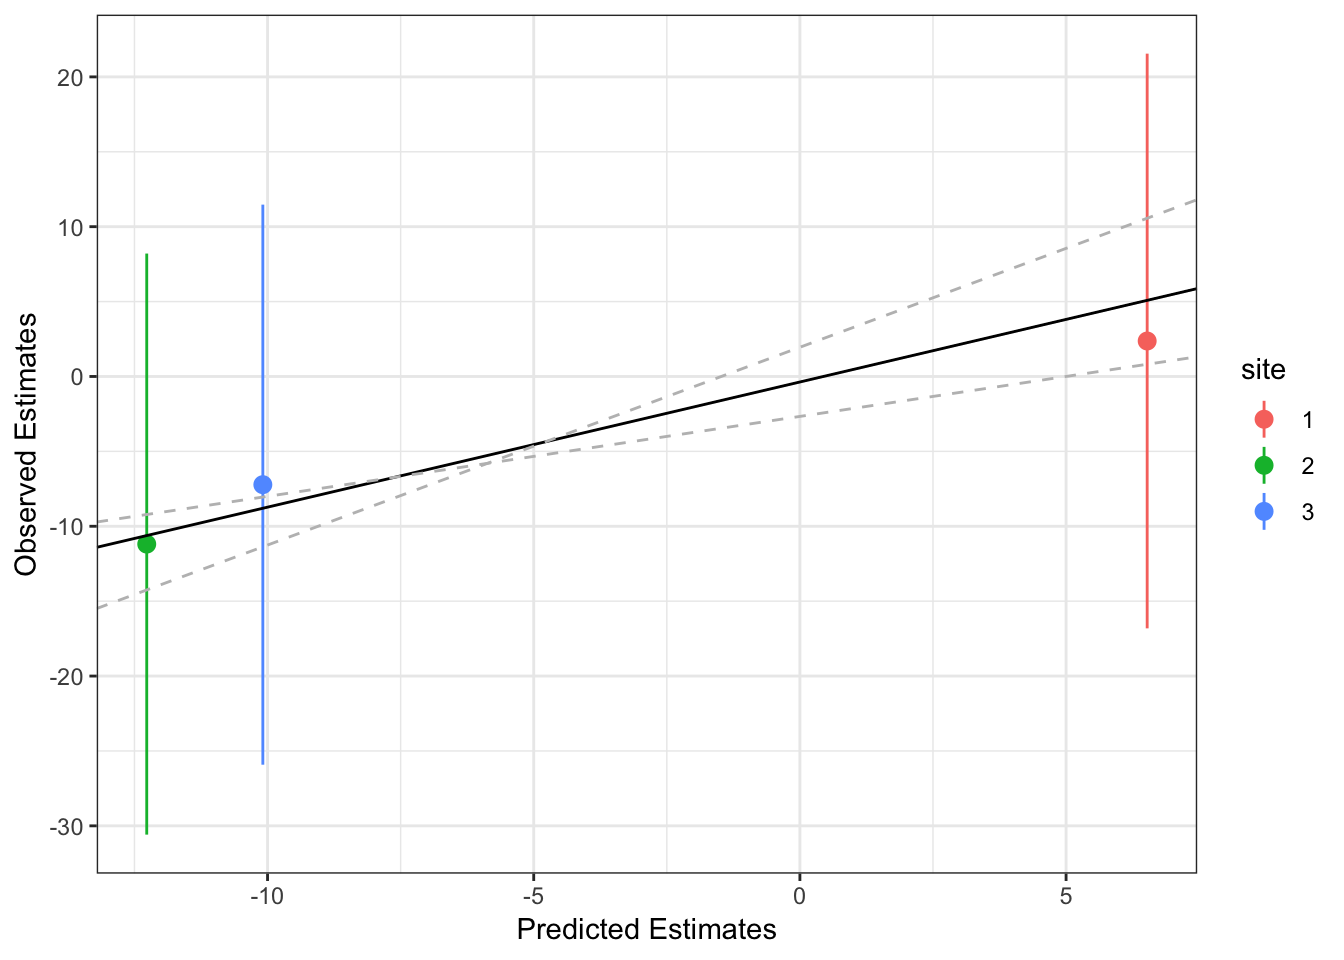
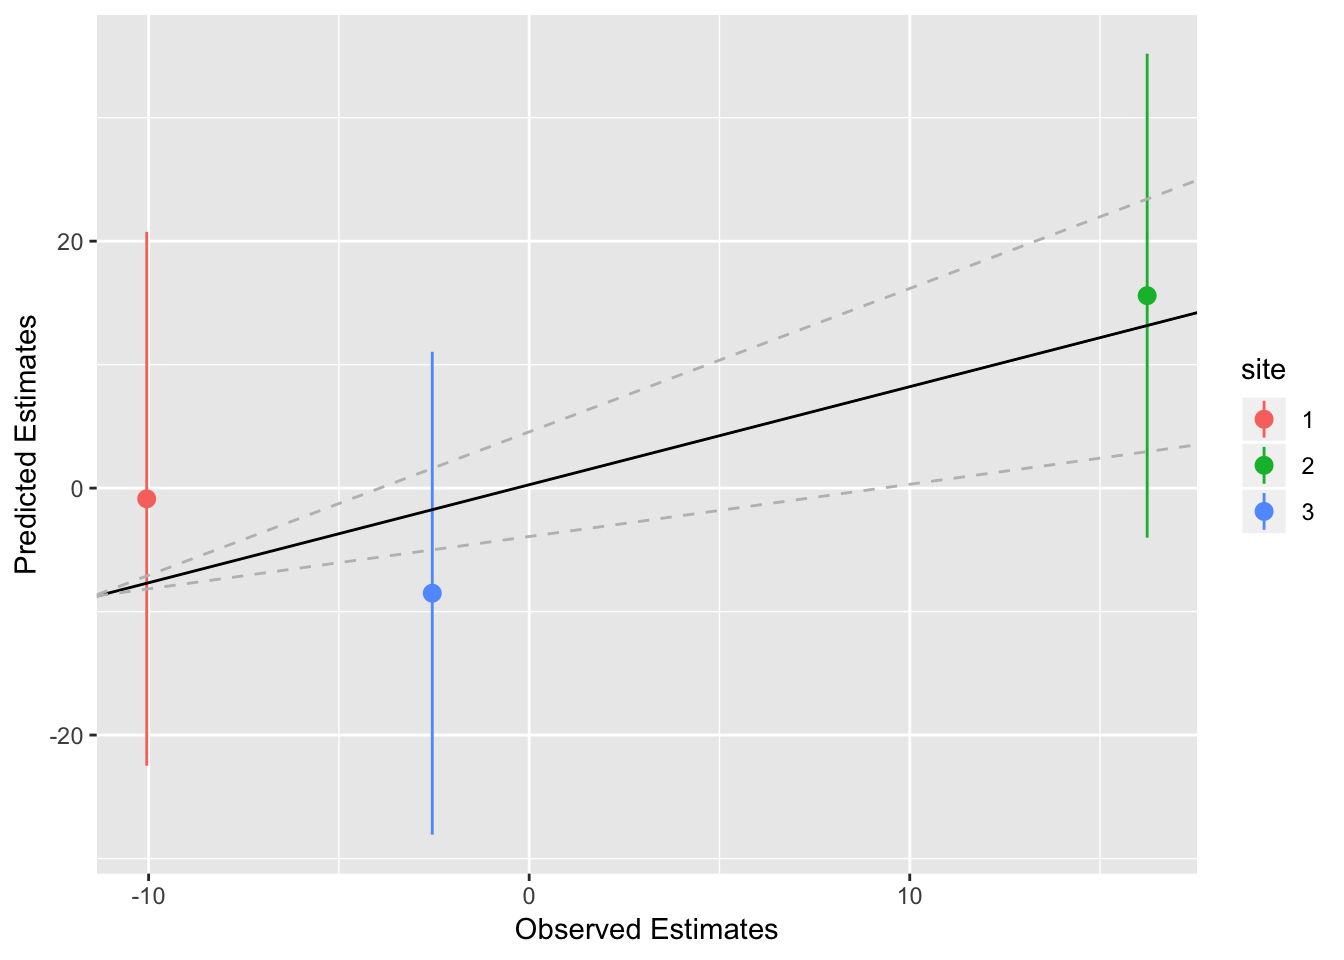
render with corrections

diff --git a/docs/anova.html b/docs/anova.html
@@ -362,12 +362,12 @@ names(df)&lt;-c(&quot;treatment&quot;, &quot;score&quot;)
 df$treatment&lt;-as.factor(df$treatment)
 head(df)</code></pre>
 <pre><code>##   treatment score
-## 1         1 84.16
-## 2         1 92.63
-## 3         1 71.88
-## 4         1 72.46
-## 5         1 67.55
-## 6         1 71.89</code></pre>
+## 1         1 75.19
+## 2         1 62.55
+## 3         1 86.31
+## 4         1 58.76
+## 5         1 63.76
+## 6         1 91.98</code></pre>
 <p>Let’s calculate the variances</p>
 <pre class="r"><code># Root mean squared error for each group
 av.sqrt1&lt;-mean(sqrt1&lt;- with(df, sqrt(score[treatment==1])))
@@ -391,10 +391,10 @@ Vwith&lt;-(av.sqrt1+av.sqrt2+av.sqrt3)/3
 Vbet&lt;-((m1-GM)^2)+((m2-GM)^2)+((m3-GM)^2)/2
 
 cat(&quot;Within Group Variance:&quot;, round(Vwith, 2), &quot;\n&quot;)</code></pre>
-<pre><code>## Within Group Variance: 8.78</code></pre>
+<pre><code>## Within Group Variance: 8.99</code></pre>
 <pre class="r"><code>cat(&quot;Between Group Variance:&quot;, round(Vbet, 2))</code></pre>
-<pre><code>## Between Group Variance: 55.19</code></pre>
-<p>Within the groups, observations vary by a factor of 8.7777676 on average, due to chance factors, such as unsystematic measurement error, idiosynchratic differences between participants and other unknown factors. The average variance between the groups is 55.1882473: the statistical test will investigate if this variance is attributable to treatment - a factor that systematically varies between the groups.</p>
+<pre><code>## Between Group Variance: 3.34</code></pre>
+<p>Within the groups, observations vary by a factor of 8.98586 on average, due to chance factors, such as unsystematic measurement error, idiosynchratic differences between participants and other unknown factors. The average variance between the groups is 3.3447006: the statistical test will investigate if this variance is attributable to treatment - a factor that systematically varies between the groups.</p>
 </div>
 <div id="running-the-anova" class="section level1">
 <h1>Running the ANOVA</h1>
@@ -403,48 +403,48 @@ cat(&quot;Within Group Variance:&quot;, round(Vwith, 2), &quot;\n&quot;)</code><
 s.aov&lt;-summary(aov) 
 s.aov</code></pre>
 <pre><code>##             Df Sum Sq Mean Sq F value Pr(&gt;F)
-## treatment    2    620   310.0   2.164  0.134
-## Residuals   27   3868   143.3</code></pre>
+## treatment    2     44   21.78   0.085  0.918
+## Residuals   27   6889  255.14</code></pre>
 <p>Means per group (that we calculated manually before), and coefficients of the treatment effect (unstandardised effect size), with standard error:</p>
 <pre class="r"><code>model.tables(aov, &quot;mean&quot;, se=TRUE) #means</code></pre>
 <pre><code>## Tables of means
 ## Grand mean
 ##          
-## 77.53833 
+## 81.45733 
 ## 
 ##  treatment 
 ## treatment
 ##     1     2     3 
-## 80.25 71.13 81.23 
+## 79.93 81.56 82.88 
 ## 
 ## Standard errors for differences of means
 ##         treatment
-##             5.353
+##             7.143
 ## replic.        10</code></pre>
 <pre class="r"><code>model.tables(aov, &quot;effects&quot;, se=TRUE) #coefficients</code></pre>
 <pre><code>## Tables of effects
 ## 
 ##  treatment 
 ## treatment
-##      1      2      3 
-##  2.713 -6.404  3.692 
+##       1       2       3 
+## -1.5243  0.1027  1.4217 
 ## 
 ## Standard errors of effects
 ##         treatment
-##             3.785
+##             5.051
 ## replic.        10</code></pre>
 <p>Let’s format the output a bit:</p>
 <pre class="r"><code>library(broom)
 tidy.summ&lt;-tidy(aov)
 tidy.summ</code></pre>
 <pre><code>## # A tibble: 2 x 6
-##   term         df sumsq meansq statistic p.value
-##   &lt;chr&gt;     &lt;dbl&gt; &lt;dbl&gt;  &lt;dbl&gt;     &lt;dbl&gt;   &lt;dbl&gt;
-## 1 treatment     2  620.   310.      2.16   0.134
-## 2 Residuals    27 3868.   143.     NA     NA</code></pre>
+##   term         df  sumsq meansq statistic p.value
+##   &lt;chr&gt;     &lt;dbl&gt;  &lt;dbl&gt;  &lt;dbl&gt;     &lt;dbl&gt;   &lt;dbl&gt;
+## 1 treatment     2   43.6   21.8    0.0853   0.918
+## 2 Residuals    27 6889.   255.    NA       NA</code></pre>
 <div id="reporting" class="section level2">
 <h2>Reporting</h2>
-<p>The treatment effect did not give a statistically significant difference, with F(2,27) = 2.16, p-value = 0.13</p>
+<p>The treatment effect did not give a statistically significant difference, with F(2,27) = 0.09, p-value = 0.92</p>
 </div>
 </div>
 <div id="effect-size" class="section level1">
@@ -457,8 +457,8 @@ R_squared &lt;- sum_squares_treatment /
             (sum_squares_treatment + sum_squares_residuals)
 
 R_squared</code></pre>
-<pre><code>## [1] 0.1381502</code></pre>
-<p>The effects size R-Squared is 0.14.</p>
+<pre><code>## [1] 0.00628243</code></pre>
+<p>The effects size R-Squared is 0.01.</p>
 </div>
 <div id="factorial-anova" class="section level1">
 <h1>Factorial Anova</h1>
@@ -485,7 +485,7 @@ str(fa.df)</code></pre>
 ##  $ subj    : Factor w/ 60 levels &quot;1&quot;,&quot;10&quot;,&quot;11&quot;,..: 1 12 23 34 45 56 58 59 60 2 ...
 ##  $ group   : Factor w/ 2 levels &quot;a&quot;,&quot;b&quot;: 1 1 1 1 1 1 1 1 1 1 ...
 ##  $ test    : Factor w/ 2 levels &quot;y&quot;,&quot;z&quot;: 1 2 1 2 1 2 1 2 1 2 ...
-##  $ response: num  15.1 15 15.3 14.4 13.9 ...</code></pre>
+##  $ response: num  14.7 14.9 14.4 14.2 15 ...</code></pre>
 <p>Output:</p>
 <pre class="r"><code>av&lt;-aov(response ~ group*test, fa.df)
 tidy.summ&lt;-tidy(av)</code></pre>
@@ -499,15 +499,15 @@ ES2&lt;-(ssq[2]*dof[2])/(ssq[2]+dof[2]+dof_res)
 ES3&lt;-(ssq[3]*dof[3])/(ssq[3]+dof[3]+dof_res)
 
 cat(&quot;ES of group:&quot;, ifelse(ES1&lt;0.001, &quot;&lt; 0.001&quot;, round(ES1, 2)), &quot;\n&quot;)</code></pre>
-<pre><code>## ES of group: 0.69</code></pre>
+<pre><code>## ES of group: 0.76</code></pre>
 <pre class="r"><code>cat(&quot;ES of test:&quot;, ifelse(ES2&lt;0.009, &quot;&lt; 0.001&quot;, round(ES2, 2)), &quot;\n&quot;)</code></pre>
 <pre><code>## ES of test: &lt; 0.001</code></pre>
 <pre class="r"><code>cat(&quot;ES of interaction:&quot;, ifelse(ES3&lt;0.009, &quot;&lt; 0.001&quot;, round(ES3, 2)), &quot;\n&quot;)</code></pre>
-<pre><code>## ES of interaction: &lt; 0.001</code></pre>
+<pre><code>## ES of interaction: 0.01</code></pre>
 </div>
 <div id="repeated-measures-anova" class="section level1">
 <h1>Repeated measures ANOVA</h1>
-<p>One of the assumptions of ANOVA is that the groups of which we are examining the means are independent. In other words, they do not have to be correlated, as it happens when you measure the same things on the same group of individuals. Broadly speaking, the errors will be smaller because measurements come from the same people, and this could significantly misallign your result. Look at our residual in the previous ANOVA: it’s approximately 24 but it might be bigger if we didn’t account for the correlation! The approach of ANOVA to this problem is to separate the calculations depending on different “strata”, and run a separate linear regression for each of them. In the formula, we need to specify the strata, for example, 1 for each subject. Note: while this is similar to a mixed model, it is <em>NOT a mixed model</em>. A mixed model does not run a separate least-square regression for each strata, but rather allow a different estimate of each coefficient within a pre-defined nesting.</p>
+<p>One of the assumptions of ANOVA is that the groups of which we are examining the means are independent. In other words, they do not have to be correlated, as it happens when you measure the same things on the same group of individuals. Broadly speaking, the errors will be smaller because measurements come from the same people, and this could significantly misallign your result. Look at our residual in the previous ANOVA: it’s approximately 20 but it might be bigger if we didn’t account for the correlation! The approach of ANOVA to this problem is to separate the calculations depending on different “strata”, and run a separate linear regression for each of them. In the formula, we need to specify the strata, for example, 1 for each subject. Note: while this is similar to a mixed model, it is <em>NOT a mixed model</em>. A mixed model does not run a separate least-square regression for each strata, but rather allow a different estimate of each coefficient within a pre-defined nesting.</p>
 <p>In this example, each participant of group A and B made the two measurements of tests y and z. So we have two scores for each subject (within-subject design).</p>
 <pre class="r"><code>subjr&lt;-rep(1:30,2)
 subjr&lt;-sort(subjr)
@@ -517,13 +517,13 @@ responser&lt;-sample(round(rnorm(500, mean=8, sd=6), digits=3), 60)
 rd.df&lt;-as.data.frame(cbind(subjr, groupr, testr, responser))
 rd.df$responser&lt;-as.numeric(as.character(rd.df$responser))
 summary(rd.df)</code></pre>
-<pre><code>##      subjr    groupr testr    responser      
-##  1      : 2   a:30   y:30   Min.   :-11.541  
-##  10     : 2   b:30   z:30   1st Qu.:  2.924  
-##  11     : 2                 Median :  6.958  
-##  12     : 2                 Mean   :  6.632  
-##  13     : 2                 3rd Qu.: 10.215  
-##  14     : 2                 Max.   : 23.339  
+<pre><code>##      subjr    groupr testr    responser     
+##  1      : 2   a:30   y:30   Min.   :-7.839  
+##  10     : 2   b:30   z:30   1st Qu.: 3.143  
+##  11     : 2                 Median : 7.032  
+##  12     : 2                 Mean   : 7.109  
+##  13     : 2                 3rd Qu.:11.818  
+##  14     : 2                 Max.   :20.266  
 ##  (Other):48</code></pre>
 <pre class="r"><code>r.av&lt;-aov(responser ~ groupr*testr + Error(subjr), data = rd.df)
 summ.tidy.rr&lt;-tidy(r.av)
@@ -532,26 +532,26 @@ summ.tidy.rr.res&lt;-subset(summ.tidy.rr, term==&quot;Residuals&quot;, select = 
 <p>Here are the statistics of the effects. We have three estimates, just as before, 2 for the effects of group and test, and their reciprocal interaction. The “stratum” indicates the grouping - in this case overall and repeated within subject. First, the between-subject factor is listed (group), and then the within-subject factors (test and its interaction):</p>
 <pre class="r"><code>summ.tidy.rr.eff</code></pre>
 <pre><code>## # A tibble: 3 x 7
-##   stratum term            df sumsq meansq statistic p.value
-##   &lt;chr&gt;   &lt;chr&gt;        &lt;dbl&gt; &lt;dbl&gt;  &lt;dbl&gt;     &lt;dbl&gt;   &lt;dbl&gt;
-## 1 subjr   groupr           1  2.08   2.08    0.0863   0.771
-## 2 Within  testr            1 85.9   85.9     1.63     0.212
-## 3 Within  groupr:testr     1 87.4   87.4     1.66     0.208</code></pre>
+##   stratum term            df  sumsq meansq statistic p.value
+##   &lt;chr&gt;   &lt;chr&gt;        &lt;dbl&gt;  &lt;dbl&gt;  &lt;dbl&gt;     &lt;dbl&gt;   &lt;dbl&gt;
+## 1 subjr   groupr           1 168.   168.      3.55    0.0700
+## 2 Within  testr            1  27.9   27.9     0.730   0.400 
+## 3 Within  groupr:testr     1   3.48   3.48    0.0910  0.765</code></pre>
 <p>In fact, we have two residual errors this time, the between and the within subject errors:</p>
 <pre class="r"><code>summ.tidy.rr.res</code></pre>
 <pre><code>## # A tibble: 2 x 5
 ##   stratum term         df sumsq meansq
 ##   &lt;chr&gt;   &lt;chr&gt;     &lt;dbl&gt; &lt;dbl&gt;  &lt;dbl&gt;
-## 1 subjr   Residuals    28  676.   24.1
-## 2 Within  Residuals    28 1472.   52.6</code></pre>
+## 1 subjr   Residuals    28 1328.   47.4
+## 2 Within  Residuals    28 1069.   38.2</code></pre>
 <p>We can calculate the percentage of variance explained by group, excluding the within-subject variation (partial ETA-Squared):</p>
 <pre class="r"><code>p.eta.group&lt;-summ.tidy.rr.eff$sumsq[1]/(summ.tidy.rr.eff$sumsq[1]+summ.tidy.rr.res$sumsq[1])
 cat(&quot;Partial Eta-Squared (group):&quot;, round(p.eta.group, 2))</code></pre>
-<pre><code>## Partial Eta-Squared (group): 0</code></pre>
+<pre><code>## Partial Eta-Squared (group): 0.11</code></pre>
 <p>The total eta-squared uses the total sum of squares, including both between and within subject errors:</p>
 <pre class="r"><code>eta.group&lt;-summ.tidy.rr.eff$sumsq[1]/(summ.tidy.rr.eff$sumsq[1]+summ.tidy.rr.res$sumsq[1]+summ.tidy.rr.res$sumsq[2])
 cat(&quot;Eta-Squared (group):&quot;, round(eta.group, 2))</code></pre>
-<pre><code>## Eta-Squared (group): 0</code></pre>
+<pre><code>## Eta-Squared (group): 0.07</code></pre>
 <p>In summary, the approach of repeated-measures anova to repeated measures is <em>separation</em>, ie, fitting strata-level regressions per each unit of repetition. This works well when the groups are balanced, ie, each subject has equal number of observations and, hence, degrees of freedom, on which the calculation of the sum of squares is based. But if a subject misses one observations, it needs to be dropped or imputed. When the groups are unbalanced and we don’t want to drop subjects or impute observations, we need to take another approach. One is to use a linear model adding a correlation term between observations, “relaxing” the assumption of independence (Marginal Model or GEE). Another approach is to introduce another kind of effect, the random effect, typical of the mixed model, that allow to extract individual-level estimates.</p>
 </div>
 

diff --git a/docs/geo-info.html b/docs/geo-info.html
@@ -348,7 +348,7 @@ $(document).ready(function () {
 <div id="geographic-info" class="section level1">
 <h1>Geographic info</h1>
 <p>We are going to attach some invented site and outcome info to the lalonde datasent. The example dataframe lalonde contains data of two treatment groups with demographic information. Site info is represented by a factor with 3 levels (centre 1, centre 2…), while outcome is a continous variable with normal distribution.</p>
-<pre class="r"><code>set.seed(88) #set seed when generating data
+<pre class="r"><code>set.seed(7) #set seed when generating data
 library(arm)
 data(lalonde)
 lalonde$site &lt;- factor(sample(x = c(1:3), 
@@ -357,35 +357,21 @@ lalonde$site &lt;- factor(sample(x = c(1:3),
 lalonde$outcome &lt;- rnorm(n = nrow(lalonde), 
                          mean = 0, 
                          sd = 100)
-summary(lalonde)</code></pre>
-<pre><code>##       age             educ          black             hisp        
-##  Min.   :17.00   Min.   : 3.0   Min.   :0.0000   Min.   :0.00000  
-##  1st Qu.:20.00   1st Qu.: 9.0   1st Qu.:1.0000   1st Qu.:0.00000  
-##  Median :24.00   Median :10.0   Median :1.0000   Median :0.00000  
-##  Mean   :25.37   Mean   :10.2   Mean   :0.8337   Mean   :0.08764  
-##  3rd Qu.:28.00   3rd Qu.:11.0   3rd Qu.:1.0000   3rd Qu.:0.00000  
-##  Max.   :55.00   Max.   :16.0   Max.   :1.0000   Max.   :1.00000  
-##     married           nodegr           re74              re75      
-##  Min.   :0.0000   Min.   :0.000   Min.   :    0.0   Min.   :    0  
-##  1st Qu.:0.0000   1st Qu.:1.000   1st Qu.:    0.0   1st Qu.:    0  
-##  Median :0.0000   Median :1.000   Median :    0.0   Median :    0  
-##  Mean   :0.1685   Mean   :0.782   Mean   : 2102.3   Mean   : 1377  
-##  3rd Qu.:0.0000   3rd Qu.:1.000   3rd Qu.:  824.4   3rd Qu.: 1221  
-##  Max.   :1.0000   Max.   :1.000   Max.   :39570.7   Max.   :25142  
-##       re78            u74              u75             treat       
-##  Min.   :    0   Min.   :0.0000   Min.   :0.0000   Min.   :0.0000  
-##  1st Qu.:    0   1st Qu.:0.0000   1st Qu.:0.0000   1st Qu.:0.0000  
-##  Median : 3702   Median :1.0000   Median :1.0000   Median :0.0000  
-##  Mean   : 5301   Mean   :0.7326   Mean   :0.6494   Mean   :0.4157  
-##  3rd Qu.: 8125   3rd Qu.:1.0000   3rd Qu.:1.0000   3rd Qu.:1.0000  
-##  Max.   :60308   Max.   :1.0000   Max.   :1.0000   Max.   :1.0000  
-##  site       outcome        
-##  1:145   Min.   :-309.389  
-##  2:150   1st Qu.: -67.830  
-##  3:150   Median :   7.287  
-##          Mean   :  -1.621  
-##          3rd Qu.:  64.275  
-##          Max.   : 306.732</code></pre>
+head(lalonde)</code></pre>
+<pre><code>##   age educ black hisp married nodegr re74 re75     re78 u74 u75 treat site
+## 1  37   11     1    0       1      1    0    0  9930.05   1   1     1    3
+## 2  22    9     0    1       0      1    0    0  3595.89   1   1     1    2
+## 3  30   12     1    0       0      0    0    0 24909.50   1   1     1    1
+## 4  27   11     1    0       0      1    0    0  7506.15   1   1     1    1
+## 5  33    8     1    0       0      1    0    0   289.79   1   1     1    1
+## 6  22    9     1    0       0      1    0    0  4056.49   1   1     1    3
+##      outcome
+## 1  -83.62505
+## 2   14.62839
+## 3 -122.50289
+## 4 -103.66269
+## 5  -84.10610
+## 6  -21.09494</code></pre>
 <p>We fit a mixed model taking site as a covariante, and allowing random intercept and varying slopes per site (i.e, we obtain individual estimates for each site).</p>
 <pre class="r"><code># install.packages(lmerTest)
 library(lmerTest)
@@ -393,7 +379,7 @@ ml.fit &lt;- lmer(outcome ~ treat + site + (0 + treat | site), data=lalonde)</co
 <pre><code>## boundary (singular) fit: see ?isSingular</code></pre>
 <pre class="r"><code>fixef(ml.fit)</code></pre>
 <pre><code>## (Intercept)       treat       site2       site3 
-##    8.895218   -6.527733  -13.557509   -9.590435</code></pre>
+##   -2.602538    1.736718   16.451929   -7.645310</code></pre>
 <p>We now make some predictions of the outcome based on our fixed and random effects. This procedure is based on one of the excellent and numerous resources provided by Ben Bolker <a href="https://github.com/bbolker" class="uri">https://github.com/bbolker</a></p>
 <pre class="r"><code># create a ds with the essential levels of the predictors; leave the outcome blank to fill it with the predictions
 newdat &lt;- expand.grid(
@@ -434,16 +420,15 @@ head(m_ci)</code></pre>
 ## # Groups:   site [3]
 ##   treat site       m  upCI downCI outcome    plo   phi    tlo   thi
 ##   &lt;dbl&gt; &lt;fct&gt;  &lt;dbl&gt; &lt;dbl&gt;  &lt;dbl&gt;   &lt;dbl&gt;  &lt;dbl&gt; &lt;dbl&gt;  &lt;dbl&gt; &lt;dbl&gt;
-## 1     0 1       5.88  26.7  -15.0   8.90   -8.82 26.6   -8.82 26.6 
-## 2     1 1       6.52  28.9  -15.8   2.37  -16.8  21.6  -16.8  21.6 
-## 3     0 2      -4.00  15.5  -23.5  -4.66  -21.8  12.5  -21.8  12.5 
-## 4     1 2     -12.3   11.8  -36.3 -11.2   -30.6   8.21 -30.6   8.21
-## 5     0 3       1.62  21.9  -18.7  -0.695 -18.4  17.0  -18.4  17.0 
-## 6     1 3     -10.1   15.2  -35.4  -7.22  -25.9  11.5  -25.9  11.5</code></pre>
+## 1     0 1       3.17 23.8  -17.4   -2.60  -22.1  16.9  -22.1  16.9 
+## 2     1 1     -10.0  18.5  -38.6   -0.866 -22.5  20.7  -22.5  20.7 
+## 3     0 2      13.4  34.4   -7.66  13.8    -4.40 32.1   -4.40 32.1 
+## 4     1 2      16.2  37.7   -5.22  15.6    -4.01 35.2   -4.01 35.2 
+## 5     0 3     -14.6   7.89 -37.1  -10.2   -28.2   7.73 -28.2   7.73
+## 6     1 3      -2.55 23.2  -28.3   -8.51  -28.1  11.0  -28.1  11.0</code></pre>
 <p>We now regress the predictions on the actual outcome (how well the actual data do fit the predictions of our model?). We add site in the random effect because we want to investigate how it influeces the deviance between the two.</p>
-<pre class="r"><code>reg &lt;- lmer(outcome~m+ (0 + treat | site), data=m_ci)</code></pre>
-<pre><code>## boundary (singular) fit: see ?isSingular</code></pre>
-<pre class="r"><code>ci &lt;- confint(reg)[3:4,]</code></pre>
+<pre class="r"><code>reg &lt;- lmer(outcome~m+ (0 + treat | site), data=m_ci)
+ci &lt;- confint(reg)[3:4,]</code></pre>
 <pre><code>## Computing profile confidence intervals ...</code></pre>
 <p>And we plot the observed effect of treatment on the predicted effect, together with the slope of the treatment effect.</p>
 <pre class="r"><code>library(ggplot2)
@@ -458,9 +443,9 @@ g0 +
               linetype=&quot;dashed&quot;, col=&quot;grey&quot;) + # add the confidence intervals of the treatment effect
   geom_abline(aes(intercept=ci[1,2], slope=ci[2,2]), 
               linetype=&quot;dashed&quot;, col=&quot;grey&quot;) +
-  labs(x=&quot;Predicted Estimates&quot;, y=&quot;Observed Estimates&quot;)</code></pre>
+  labs(y=&quot;Predicted Estimates&quot;, x=&quot;Observed Estimates&quot;)</code></pre>
 <p><img src="geo-info_files/figure-html/unnamed-chunk-6-1.png" width="672" /></p>
-<p>We can see here that estimates of site 2 and 3 are quite in line with the treatment effect, as estimated by the model. The most reliable estimate is from site 2 (lies within the confidence interval), meaning that this model captures what is happening at site 2 quite well. However, the behaviour with site 3 is also not that bad, only slighly above the actual effect. However, the estimate of the treatment effect is a bit more underestimated at site 1. This might be a useful information when considering the generalisation to all the sites of the treatment effect.</p>
+<p>We can see here that estimates of site 2 and 3 are quite in line with the treatment effect, as estimated by the model. The most reliable estimate is from site 2 (lies within the confidence interval), meaning that this model captures what is happening at site 2 quite well. However, the behaviour with site 3 is also not that bad, but below the actual effect. The estimate of the treatment effect is a bit more overestimated at site 1. This might be a useful information when considering the generalisation to all the sites of the treatment effect.</p>
 </div>
 <div id="plot-coefficients" class="section level1">
 <h1>Plot coefficients</h1>
@@ -476,7 +461,7 @@ plot_coefs(fit,
                                                                     &quot;Education   &quot;)),
            inner_ci_level = .90)</code></pre>
 <p><img src="geo-info_files/figure-html/unnamed-chunk-7-1.png" width="672" /></p>
-<p>Here we can see that while the effect of education on outcome is positive in all sites, the effect of age is negative in site 2 (even though the CI overlap… probably not a significant difference!).</p>
+<p>Here we can see that the effect of age is positive in site 1 (even though the CI overlap… probably not a significant difference!).</p>
 </div>
 
 

diff --git a/docs/lm-assumptions.html b/docs/lm-assumptions.html
@@ -355,15 +355,6 @@ summary(ChickWeight)</code></pre>
 ##  Max.   :373.0   Max.   :21.00   19     : 12          
 ##                                  (Other):506</code></pre>
 <pre class="r"><code>attach(ChickWeight)</code></pre>
-<pre><code>## The following objects are masked from ChickWeight (pos = 3):
-## 
-##     Chick, Diet, Time, weight</code></pre>
-<pre><code>## The following objects are masked from ChickWeight (pos = 4):
-## 
-##     Chick, Diet, Time, weight</code></pre>
-<pre><code>## The following objects are masked from ChickWeight (pos = 17):
-## 
-##     Chick, Diet, Time, weight</code></pre>
 </div>
 <div id="linear-model" class="section level1">
 <h1>Linear Model</h1>
